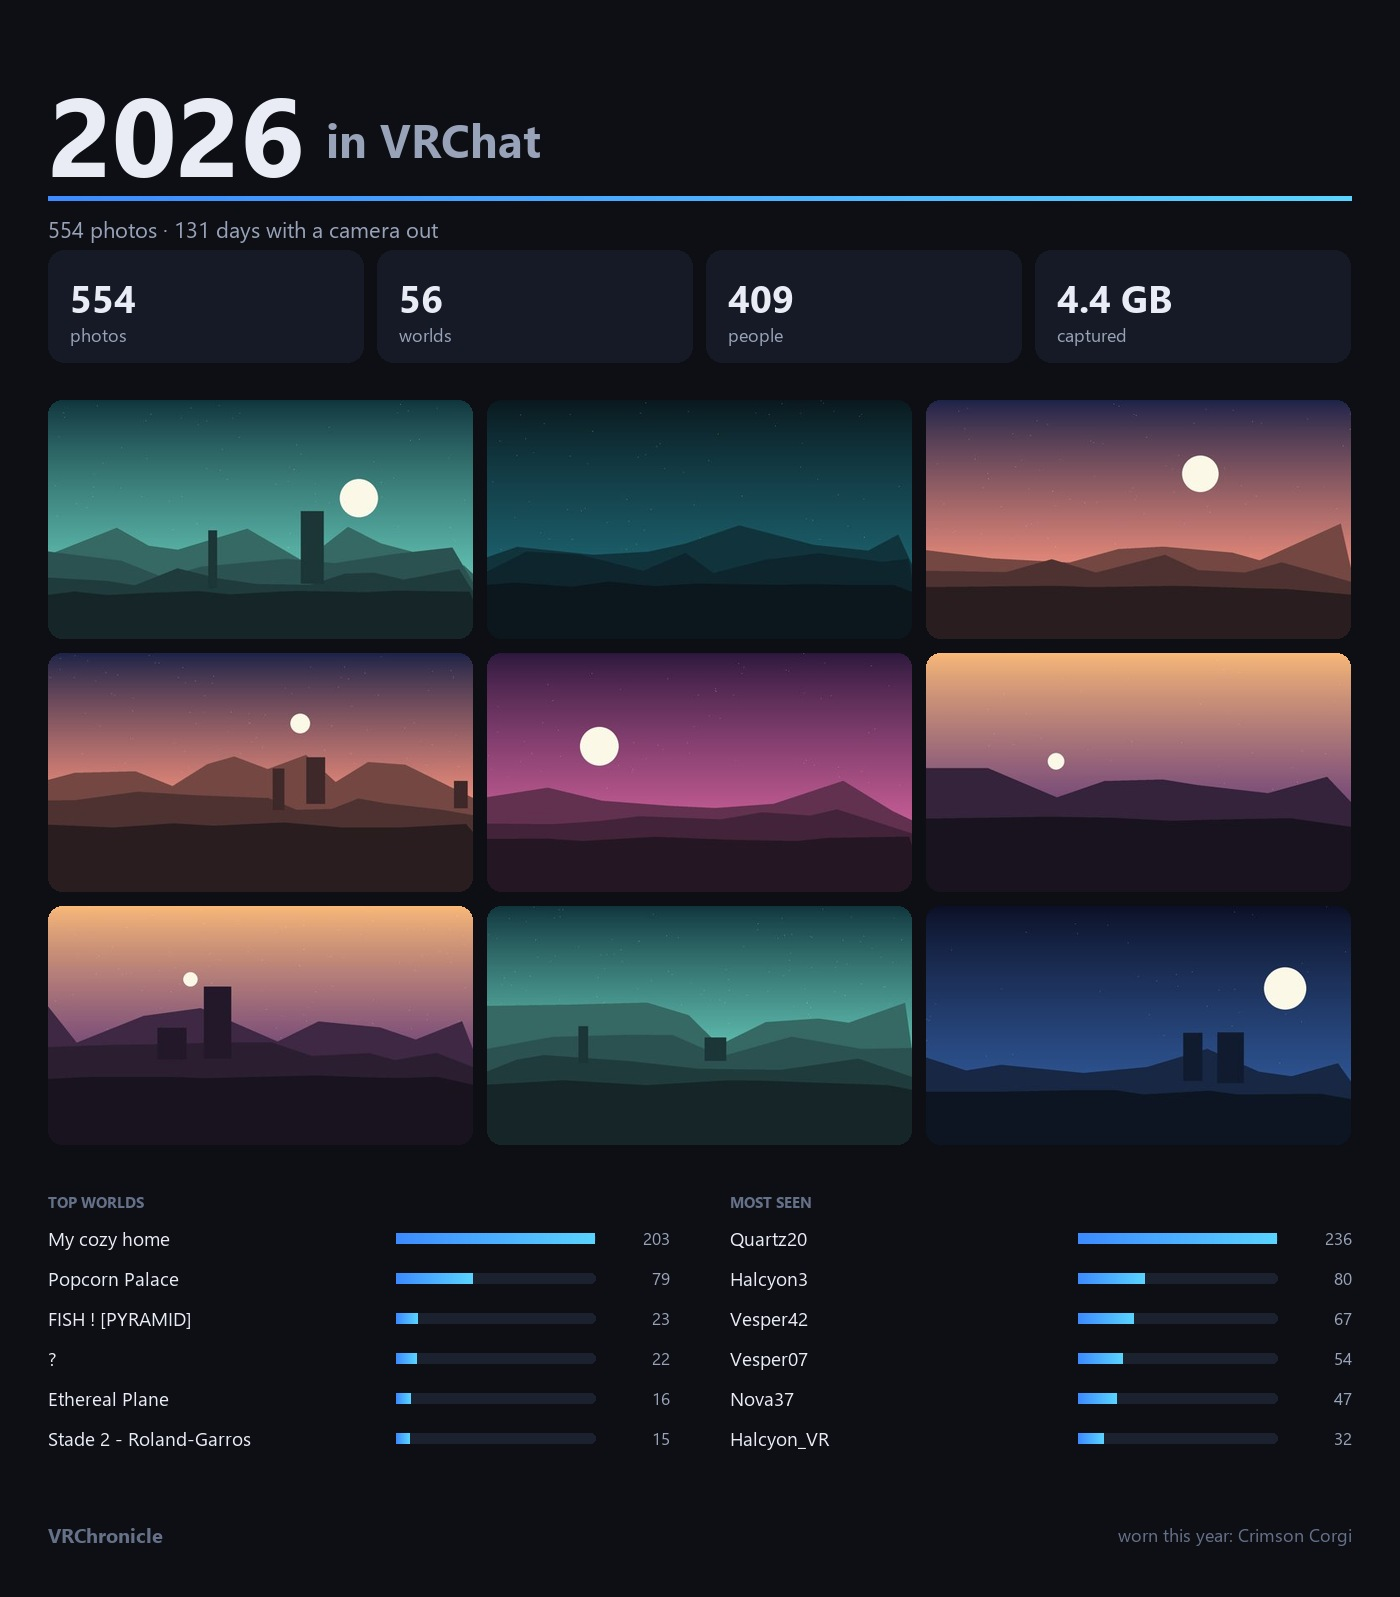
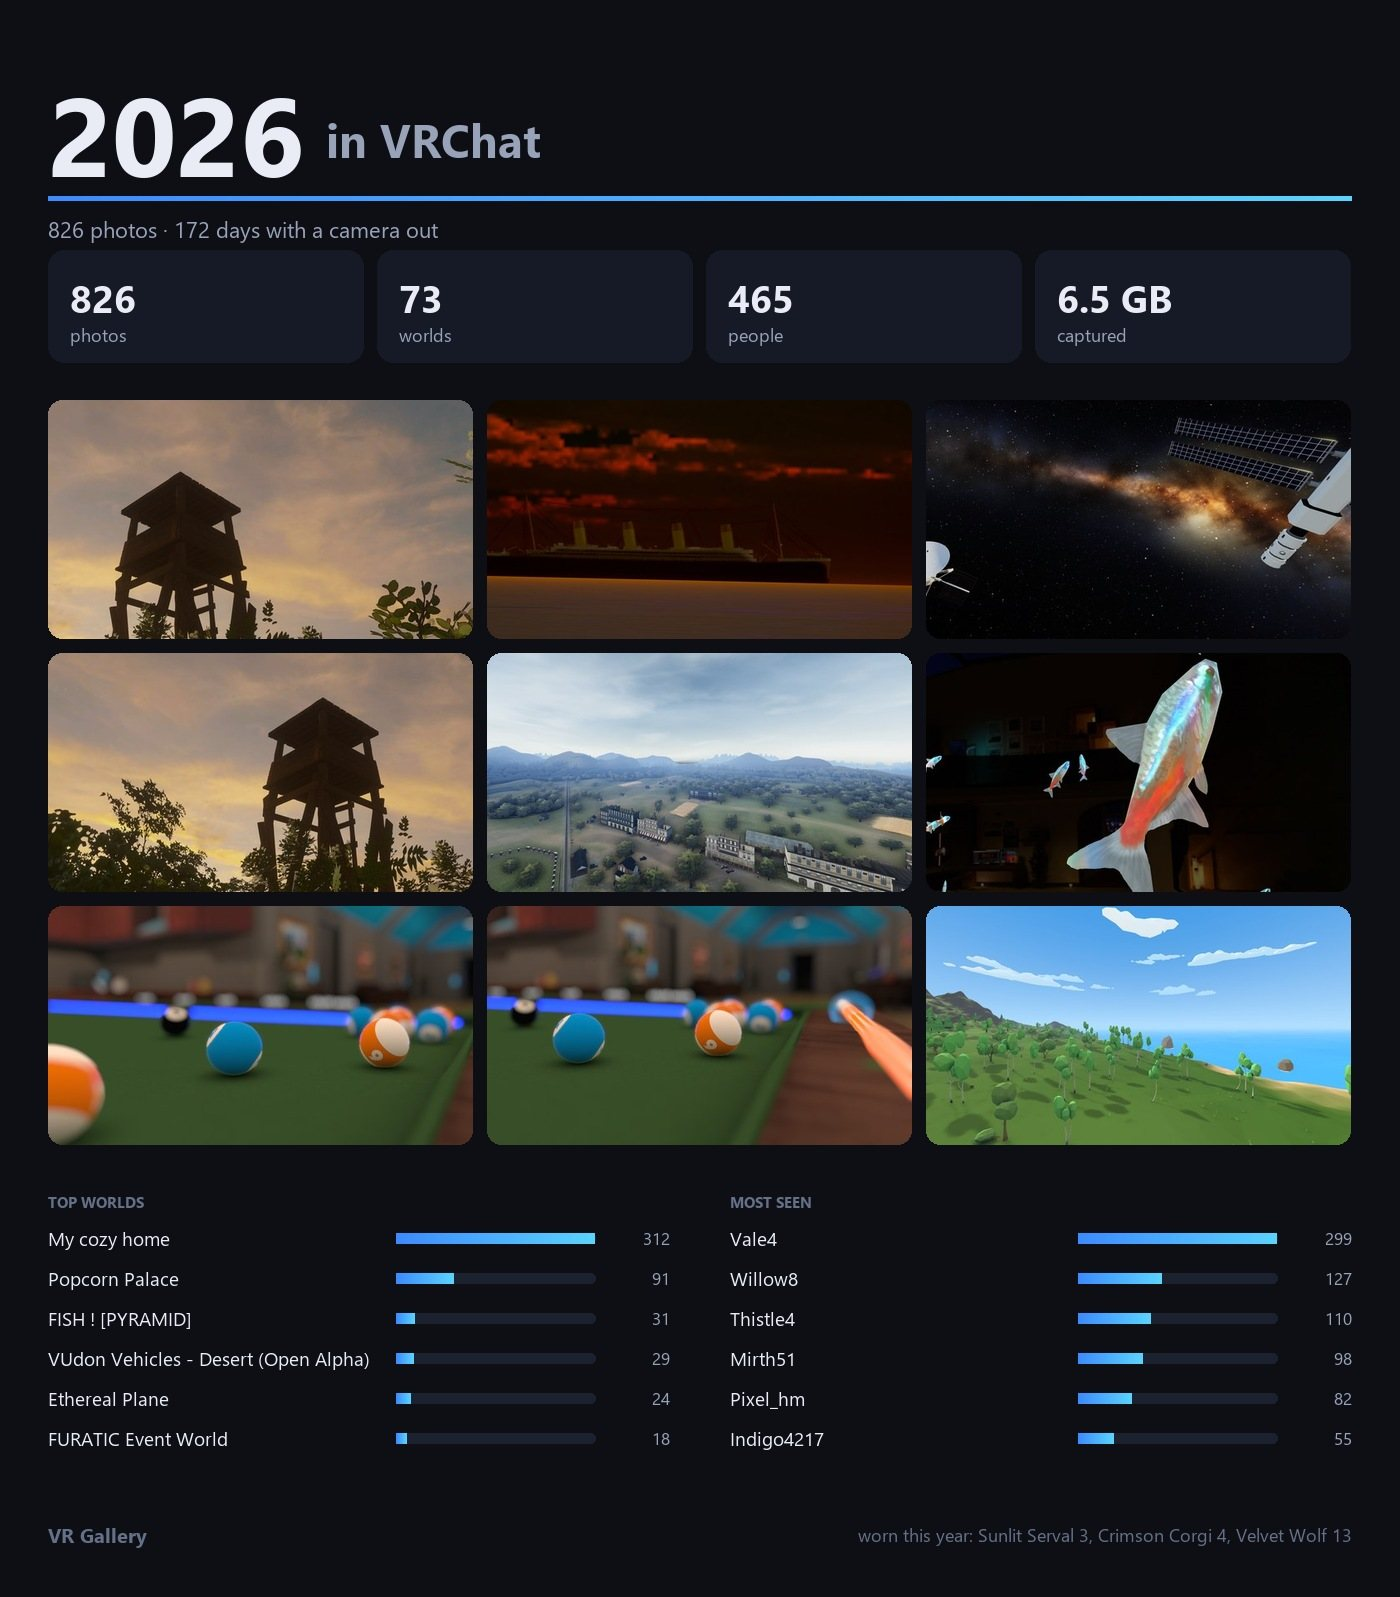
README: screenshots of 2.16.1, on a demo library with real photos
The README's thirteen screenshots were 2.0.0 or older (no Home, no title-bar
pill, the old icon). All re-rendered from 2.16.1 on a pseudonymised demo
library: every display and avatar name made up, user ids cleared, and the
photos fifteen of Erik's own with nobody in them, metadata stripped. Rows the
library measured as all-black shots get a darkened copy, so Cleanup's
black-shot list still looks like one. The welcome card is rendered against a
stand-in home folder, so no real path or log was read for it.

JPEG instead of PNG (83-200 KB each, they were up to 290 KB as flat
drawings and would be several MB as photos); the note under the first
screenshot now says what the photos are.

diff --git a/README.md b/README.md
@@ -6,13 +6,15 @@ because it reads the same logs VRChat throws away.
 **[⬇ Download the installer](https://github.com/fgs8z2n9qh-tech/VRGallery/releases/latest)**
 · Windows 10/11, no Python needed
 
-![The photo timeline](docs/01-photos.png)
+![The photo timeline](docs/01-photos.jpg)
 
-> Every screenshot on this page comes from a stand-in library built by
-> `tools\make_demo.py`: the structure is a real one — real worlds, real dates, real
-> session and duplicate groupings — but every display name is made up and every photo
-> is a generated scene. Publishing who somebody actually plays with, or the photos
-> they are in, is exactly the thing this app warns you about.
+> Every screenshot on this page comes from a stand-in library built the way
+> `tools\make_demo.py` builds one: the structure is a real one — real worlds, real
+> dates, real session and duplicate groupings — but every display name and avatar name
+> is made up, and the photos are fifteen of the author's own, picked to have nobody in
+> them, stripped of their metadata and repeated across the library. Publishing who
+> somebody actually plays with, or the photos they are in, is exactly the thing this
+> app warns you about.
 
 ## The window
 
@@ -28,9 +30,9 @@ it. Each year and month is a card showing the best photo of that period — a fa
 else the highest rated, else the newest. **All** drops the day headings entirely and
 lays the whole library out as one uninterrupted sheet of square tiles.
 
-![The continuous view](docs/13-continuous.png)
+![The continuous view](docs/13-continuous.jpg)
 
-![Browsing by year](docs/11-years.png)
+![Browsing by year](docs/11-years.jpg)
 
 The wheel glides rather than stepping: notches accumulate into a target and the view
 eases towards it. Scrolling down folds the page title away and the toolbar shrinks to just its controls;
@@ -47,7 +49,7 @@ bubble and notifications are made of the same material. The pinned day header is
 deliberately solid: it spans the full width while the photos under it do not, and glass
 there is half smeared picture and half flat background.
 
-![Frosted panels over the grid](docs/12-glass.png)
+![Frosted panels over the grid](docs/12-glass.jpg)
 
 ## First run
 
@@ -70,28 +72,28 @@ It says what it is going to read, from where, before it reads any of it.
 A run of photos taken in one sitting becomes an event, with the world, the time span
 and who was around. Save any of them as an album, or render it as a contact sheet.
 
-![Moments](docs/02-moments.png)
+![Moments](docs/02-moments.jpg)
 
 ## Sessions
 
 One card per visit to a world: how long you stayed, who was there, and the shots you
 took. The badge tells you whether it was a public, friends+, invite or group instance.
 
-![Sessions](docs/03-sessions.png)
+![Sessions](docs/03-sessions.jpg)
 
 ## People
 
 The People page opens a profile rather than a plain filter: when you first met, where
 you usually run into each other, and who else is normally in the room.
 
-![A person's profile](docs/04-person.png)
+![A person's profile](docs/04-person.jpg)
 
 ## The photo itself
 
 World, avatar worn, instance type, rating, and everyone who was in the instance when
 the shutter went. Click a name to see every photo you share with them.
 
-![Lightbox](docs/06-lightbox.png)
+![Lightbox](docs/06-lightbox.jpg)
 
 ### Tagging people in the frame
 
@@ -103,11 +105,11 @@ The boxes stay out of the way: the photo looks untouched, with only a small badg
 the corner counting who is tagged. Point at somebody and their name appears, the way a
 photo tag works anywhere else. Click the badge to see everyone at once.
 
-![People tagged in a photo](docs/10-tags.png)
+![People tagged in a photo](docs/10-tags.jpg)
 
 ## Statistics and Year in review
 
-![Statistics](docs/05-statistics.png)
+![Statistics](docs/05-statistics.jpg)
 
 One button renders a shareable poster for any year — stats, top worlds and people, and
 a best-of grid picked for variety rather than nine shots of the same moment.
@@ -121,7 +123,7 @@ brightness check, so different avatars on the same flat backdrop are not lumped
 together) and huge PNGs. Everything goes to the **Recycle Bin** after asking; nothing
 is ever deleted permanently.
 
-![Cleanup](docs/07-cleanup.png)
+![Cleanup](docs/07-cleanup.jpg)
 
 **Recently deleted** lists what VR Gallery put in the Recycle Bin, with the date, and
 puts any of it back where it came from. Nothing can be permanently deleted from there
